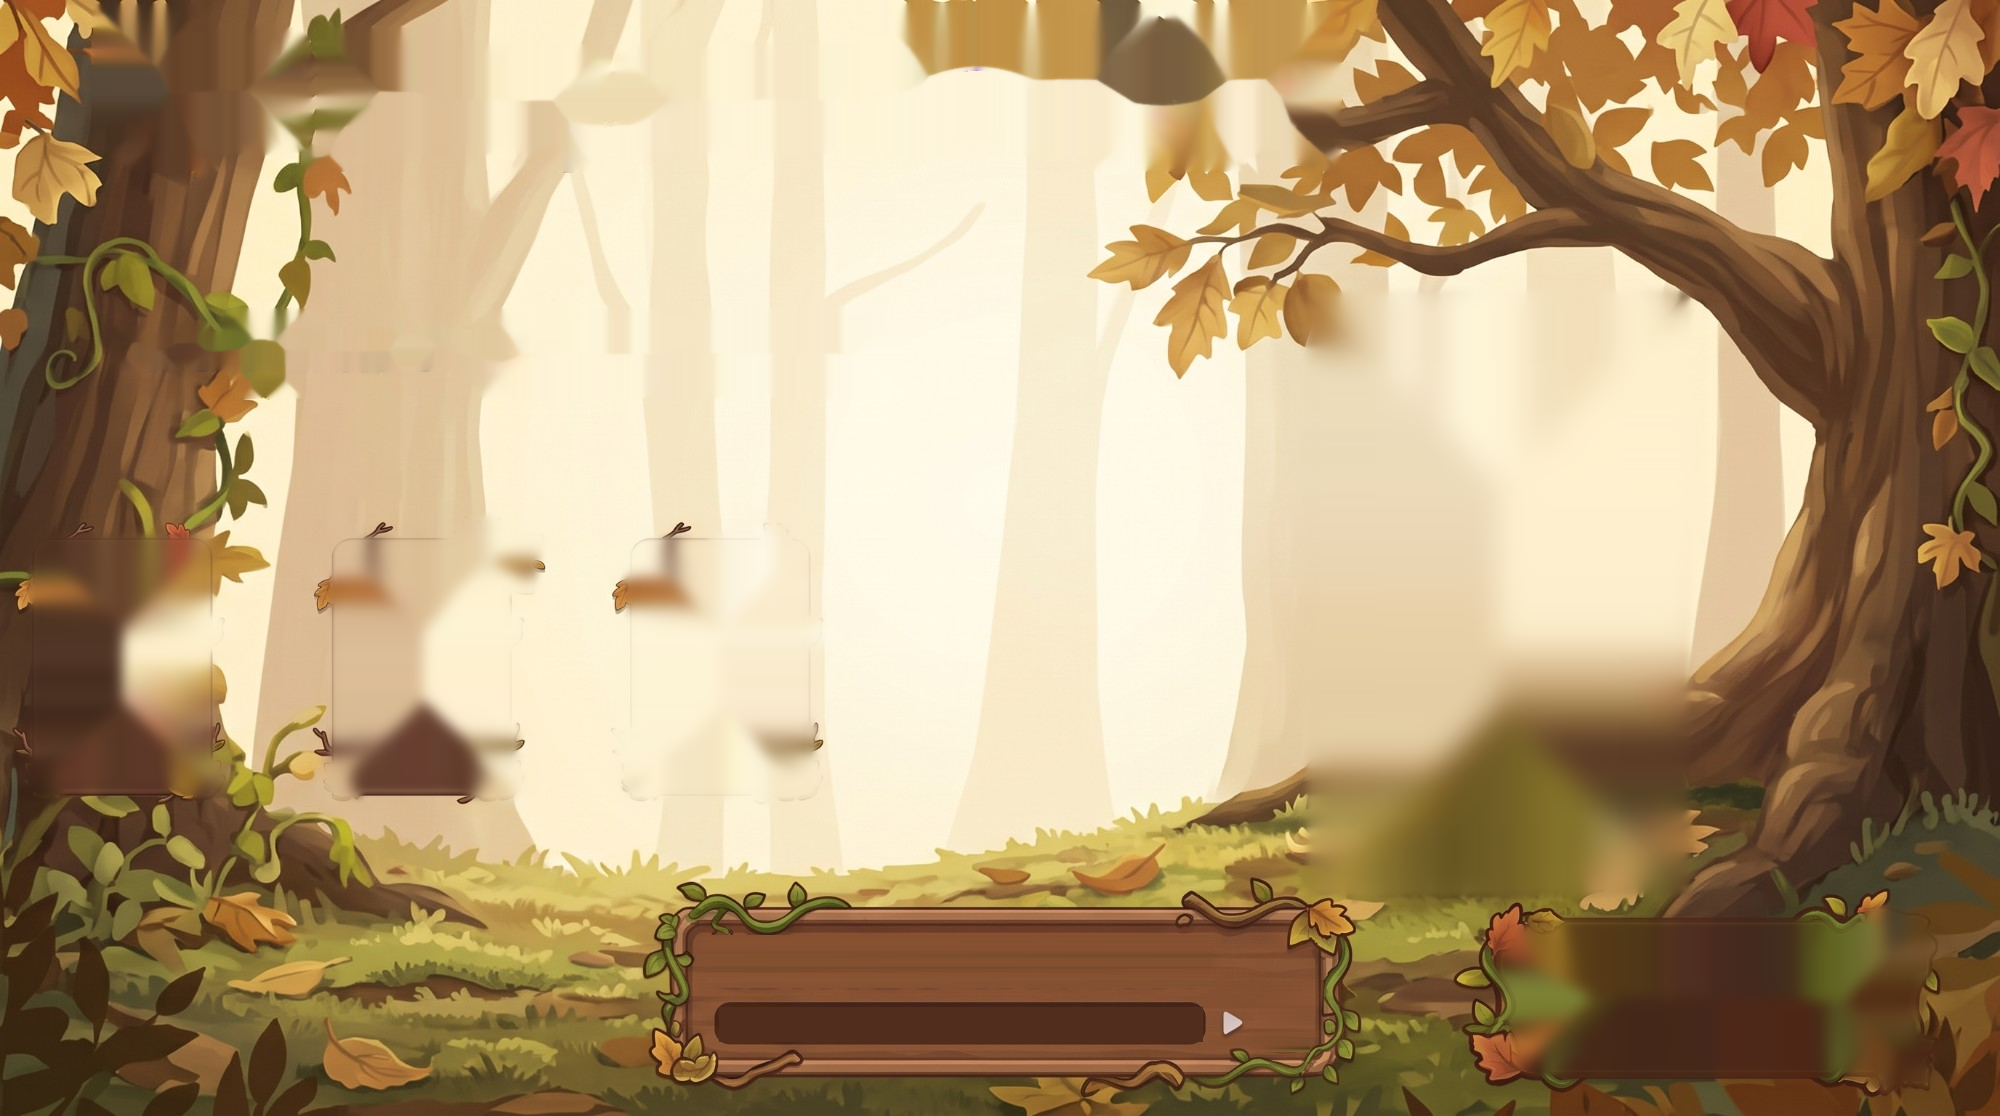
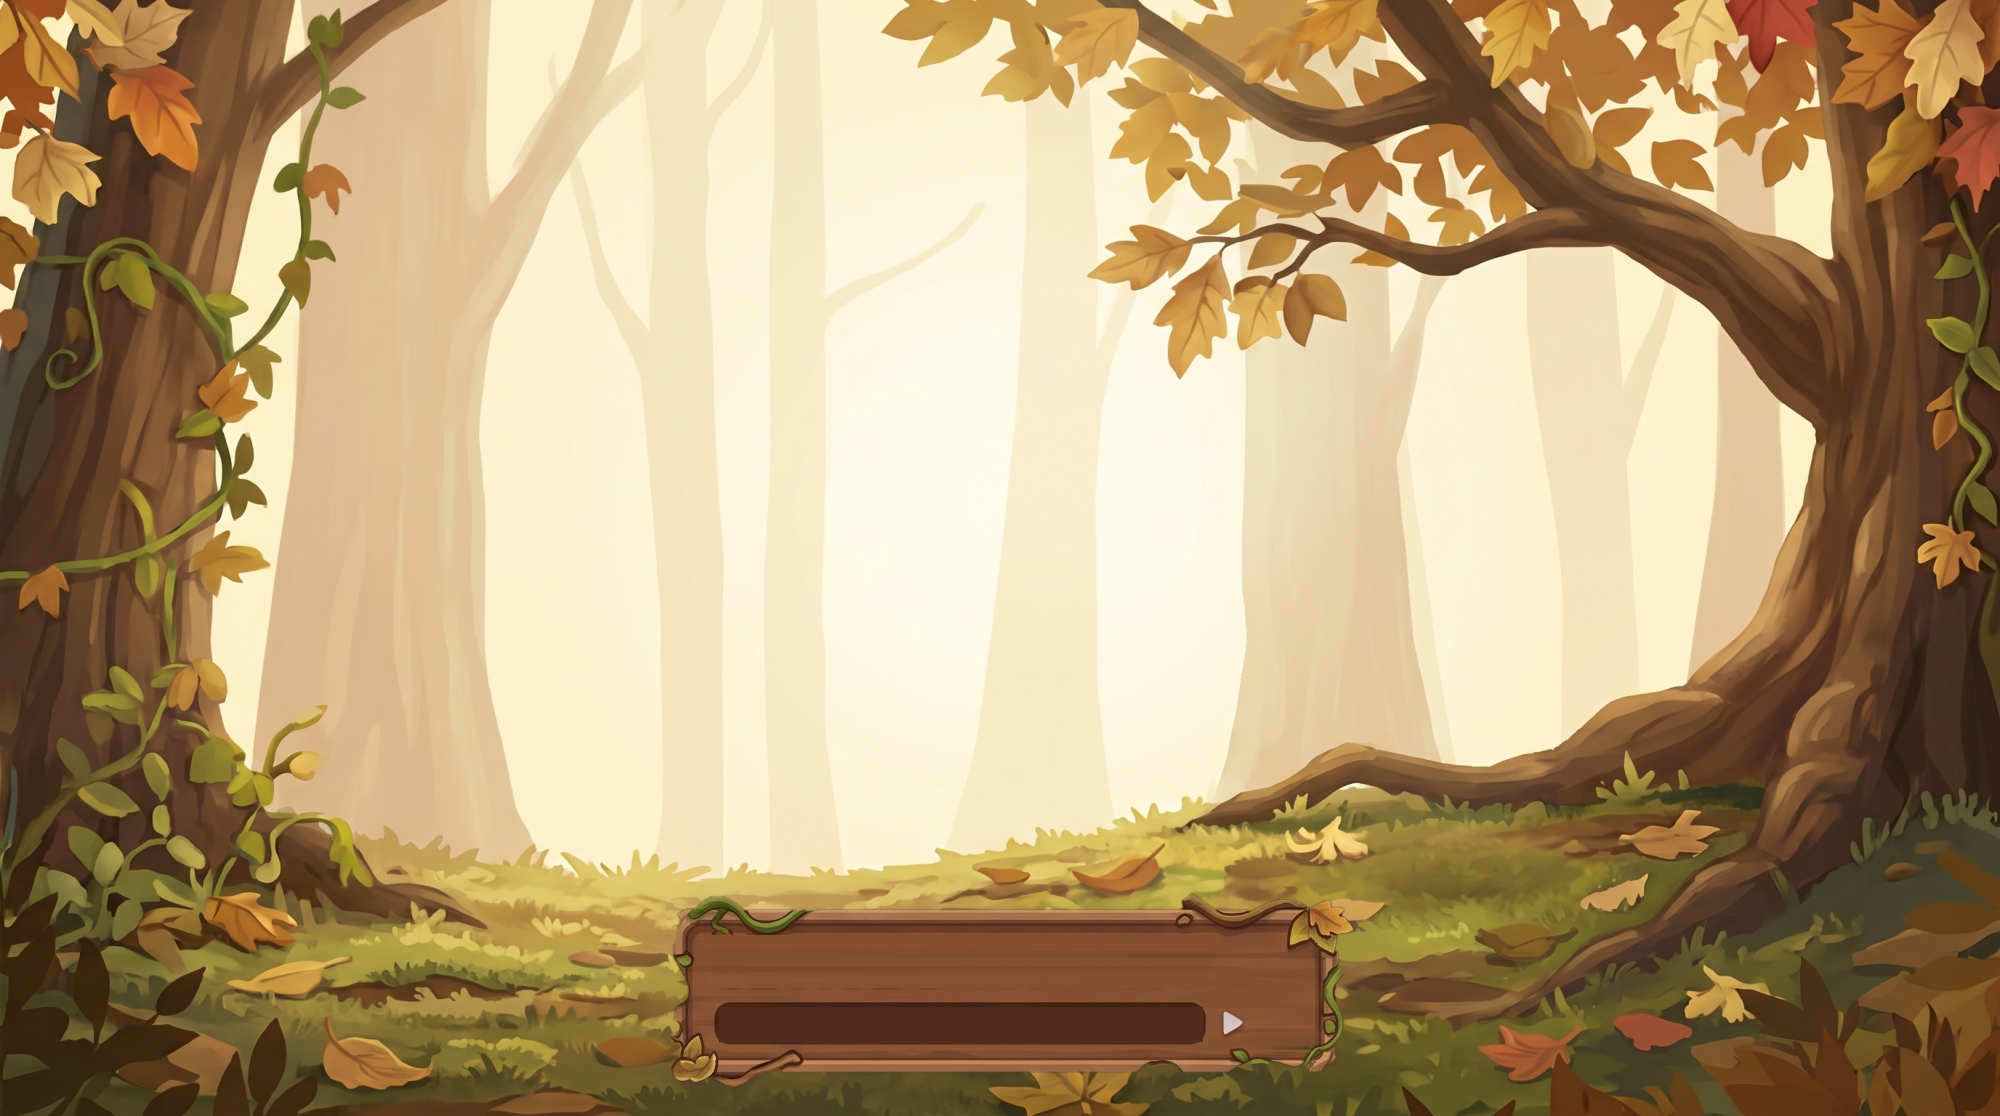
Mac sonu: arka plan kullanicinin bos orman resmi (bulanik doldurma yok), ustunde tasarimdaki seviye tahtasi; 3D karakter alani kare ve buyuk (doku kareydi, karakter sikisip kucuk ve yukarida kaliyordu); bir kez yeniden uygulanir

diff --git a/Tools/MenuArt/ekranlar_hazirla.py b/Tools/MenuArt/ekranlar_hazirla.py
@@ -18,8 +18,8 @@ Kaynaklar Tools/MenuArt/kaynak/*_tasarim.jpg (2000x1116), ciktilar Assets/GameAr
     resimleri (yazi ve ikon silinmis), secili kart (altin yaprakli), tikler, sekme tahtasi ve
     islem butonu (secili: resimdeki, sec: yesil, satin al: altin).
 
-  Mac sonu: arka plan (baslik, mesaj, karakter, kartlar, seviye yazilari, XP dolumu ve DEVAM
-    butonu silinmis), uc kart resmi (ikon ve alt yazi resimde, sayi canli), 2x yapragi ve DEVAM
+  Mac sonu: arka plan kullanicinin bos orman resmi (kaynak/macsonu_arkaplan.jpg) + tasarimdaki
+    seviye tahtasi (yazilari ve XP dolumu silinmis), uc kart resmi (ikon ve alt yazi resimde, sayi canli), 2x yapragi ve DEVAM
     ET butonu (oyunda ziplayarak gelirler).
 
 Calistir:   python Tools/MenuArt/ekranlar_hazirla.py   (opencv-python gerekir)
@@ -354,17 +354,52 @@ def erase_plank_text(img, rect, pad=9):
     return out
 
 
+def patch_fill(img, mask, patch=15, search=240):
+    """
+    Desenle doldurma: bosluk disaridan iceri, cevredeki en benzer parcalar kopyalanarak
+    kapatilir (bulaniklik yok, orman / zemin dokusu devam eder).
+    """
+    out = img.astype(np.float32).copy()
+    todo = mask.astype(bool).copy()
+    half = patch // 2
+    ys, xs = np.nonzero(todo)
+    bx0, by0 = max(0, xs.min() - search), max(0, ys.min() - search)
+    bx1, by1 = min(W, xs.max() + search), min(H, ys.max() + search)
+    kernel = np.ones((patch, patch), np.float32)
+    while todo.any():
+        known = (~todo).astype(np.float32)
+        area_known = known[by0:by1, bx0:bx1]
+        confidence = cv2.filter2D(area_known, -1, kernel / kernel.sum(), borderType=cv2.BORDER_CONSTANT)
+        front = todo[by0:by1, bx0:bx1] & (confidence > 0)
+        confidence[~front] = -1
+        fy, fx = np.unravel_index(np.argmax(confidence), confidence.shape)
+        y, x = fy + by0, fx + bx0
+        y = min(max(y, half), H - half - 1)
+        x = min(max(x, half), W - half - 1)
+        tpl = out[y - half:y + half + 1, x - half:x + half + 1]
+        tmask = known[y - half:y + half + 1, x - half:x + half + 1]
+        sx0, sy0 = max(0, x - search), max(0, y - search)
+        sx1, sy1 = min(W, x + search + 1), min(H, y + search + 1)
+        region = out[sy0:sy1, sx0:sx1]
+        cost = cv2.matchTemplate(region, tpl, cv2.TM_SQDIFF, mask=np.dstack([tmask] * 3))
+        holes = cv2.filter2D(todo[sy0:sy1, sx0:sx1].astype(np.float32), -1, kernel, borderType=cv2.BORDER_CONSTANT)
+        holes = holes[half:half + cost.shape[0], half:half + cost.shape[1]]
+        cost[holes > 0.5] = np.inf
+        cost[~np.isfinite(cost)] = np.inf
+        my, mx = np.unravel_index(np.argmin(cost), cost.shape)
+        src = out[sy0 + my:sy0 + my + patch, sx0 + mx:sx0 + mx + patch]
+        fill = todo[y - half:y + half + 1, x - half:x + half + 1]
+        tpl[fill] = src[fill]
+        todo[y - half:y + half + 1, x - half:x + half + 1] = False
+    return np.clip(out, 0, 255).astype(np.uint8)
+
+
 def fill_person(img, rect):
-    """Karakterin yeri: cevreden yumusak doldurma (oyunda 3D karakter ustunde durur)."""
+    """Karakterin yeri cevredeki ormandan desenle doldurulur (oyunda 3D karakter ustunde)."""
     x0, y0, x1, y1 = rect
     mask = np.zeros((H, W), np.uint8)
-    cv2.rectangle(mask, (x0, y0), (x1, y1), 1, -1)
-    filled = cv2.inpaint(img, mask * 255, 25, cv2.INPAINT_NS)
-    soft = cv2.GaussianBlur(filled, (0, 0), 14)
-    inner = cv2.GaussianBlur(mask.astype(float), (0, 0), 18)[..., None]
-    edge = cv2.GaussianBlur(mask.astype(float), (0, 0), 4)[..., None]
-    out = img * (1 - edge) + (filled * (1 - inner) + soft * inner) * edge
-    return out.astype(np.uint8)
+    cv2.ellipse(mask, ((x0 + x1) // 2, (y0 + y1) // 2), ((x1 - x0) // 2, (y1 - y0) // 2), 0, 0, 360, 1, -1)
+    return patch_fill(img, mask)
 
 
 def leaf_alpha(img):
@@ -613,31 +648,14 @@ def match_end():
     x0, y0, x1, y1 = END_BUTTON
     save_rgba("macsonu_devam.png", img[y0:y1, x0:x1], cv2.GaussianBlur(button_fg[y0:y1, x0:x1].astype(float), (0, 0), 0.8))
 
-    # Arka plan
-    background = img.copy()
-    remove = (cards_mask | badge_full | button_fg).astype(np.uint8)
-    remove = cv2.dilate(remove, np.ones((9, 9), np.uint8))
-    filled = cv2.inpaint(background, remove * 255, 21, cv2.INPAINT_NS)
-    soft = cv2.GaussianBlur(filled, (0, 0), 6)
-    weight = cv2.GaussianBlur(remove.astype(float), (0, 0), 3)[..., None]
-    background = (background * (1 - weight) + soft * weight).astype(np.uint8)
-
-    # baslik (turuncu, koyu kenarli) ve mesaj (beyaz, koyu kenarli)
-    text = np.zeros((H, W), np.uint8)
-    title = hsv[10:165, 100:1335]
-    letters = ((title[..., 0] >= 5) & (title[..., 0] <= 25) & (title[..., 1] > 150) & (title[..., 2] > 160)).astype(np.uint8)
-    text[10:165, 100:1335] = cv2.dilate(letters, np.ones((27, 27), np.uint8))
-    message = hsv[315:392, 105:895]
-    text[315:392, 105:895] = (message[..., 1] < 70) & (message[..., 2] > 215)
-    text = cv2.dilate(text, np.ones((15, 15), np.uint8))
-    background = cv2.inpaint(background, text * 255, 9, cv2.INPAINT_NS)
-    background = fill_person(background, (1305, 290, 1690, 895))
-
-    # seviye tahtasi: yazilar, dolum ve sonraki seviye sayisi
-    background = erase_plank_text(background, (705, 935, 1215, 997))
-    background = erase_plank_text(background, (1248, 988, 1312, 1058))
-    track = np.median(background[1010:1040, 900:1100].reshape(-1, 3), axis=0)
-    background[1007:1042, 719:1203] = track.astype(np.uint8)
+    # Arka plan: kullanicinin bos orman resmi; ustune tasarimdaki seviye tahtasi (yazilari silinmis).
+    plank = erase_plank_text(img, (705, 935, 1215, 997))
+    plank = erase_plank_text(plank, (1248, 988, 1312, 1058))
+    track = np.median(plank[1010:1040, 900:1100].reshape(-1, 3), axis=0)
+    plank[1007:1042, 719:1203] = track.astype(np.uint8)
+    plank_alpha = cv2.GaussianBlur(cut_out(img, (690, 912, 1335, 1062), 32).astype(float), (0, 0), 1.0)[..., None]
+    background = cv2.resize(load("macsonu_arkaplan.jpg"), (W, H), interpolation=cv2.INTER_AREA)
+    background = (background * (1 - plank_alpha) + plank * plank_alpha).astype(np.uint8)
     cv2.imwrite(os.path.join(OUT, "macsonu_arkaplan.png"), background)
 
 

diff --git a/Assets/Editor/Menu/MainMenuBuilder.AutumnScreens.cs b/Assets/Editor/Menu/MainMenuBuilder.AutumnScreens.cs
@@ -59,7 +59,8 @@ namespace NewBattle.EditorTools
             LobbyAnimationScreen character = Object.FindFirstObjectByType<LobbyAnimationScreen>(FindObjectsInactive.Include);
             MatchEndScreen matchEnd = Object.FindFirstObjectByType<MatchEndScreen>(FindObjectsInactive.Include);
 
-            bool Needs(Component screen) => screen != null && (force || screen.transform.Find(AutumnLayerName) == null);
+            bool Needs(Component screen) => screen != null && (force || screen.transform.Find(AutumnLayerName) == null ||
+                                                                (screen is MatchEndScreen && screen.transform.Find(MatchEndMarker) == null));
             if (!Needs(settings) && !Needs(profile) && !Needs(levelRoad) && !Needs(shop) && !Needs(character) &&
                 !Needs(matchEnd))
                 return;
@@ -851,6 +852,9 @@ namespace NewBattle.EditorTools
         // Mac sonu
         // ------------------------------------------------------------------
 
+        /// <summary>Mac sonu 2. surum: kullanicinin bos orman arka plani, kare karakter alani.</summary>
+        private const string MatchEndMarker = "MacSonu_v2";
+
         private static bool ApplyMatchEndDesign(MatchEndScreen screen)
         {
             var root = (RectTransform)screen.transform;
@@ -924,7 +928,9 @@ namespace NewBattle.EditorTools
                 badge.SetAsLastSibling();
             }
 
-            ModeMap(ScreenRef(serialized, "characterImage"), background, new Vector4(1290, 280, 1710, 900));
+            // Karakter goruntusu kare doku (512x512) ve karakter dokunun ust yarisinda: alan kare ve
+            // buyuk tutulur ki karakter resimdeki yerde (ayaklar ~885) ve boyda dursun.
+            ModeMap(ScreenRef(serialized, "characterImage"), background, new Vector4(968, 326, 2023, 1381));
 
             // Seviye tahtasi: tahta resimde; yazilar ve dolum canli.
             ModeOverlay(ScreenRef(serialized, "levelText"), background, new Vector4(712, 938, 952, 996), Hex("#DCD3DA"),
@@ -983,6 +989,12 @@ namespace NewBattle.EditorTools
 
             serialized.ApplyModifiedProperties();
             AutumnMarker(root, null);
+            if (root.Find(MatchEndMarker) == null)
+            {
+                RectTransform marker = NewRect(MatchEndMarker, root);
+                Undo.RegisterCreatedObjectUndo(marker.gameObject, "Isaret");
+            }
+
             return true;
         }
     }
